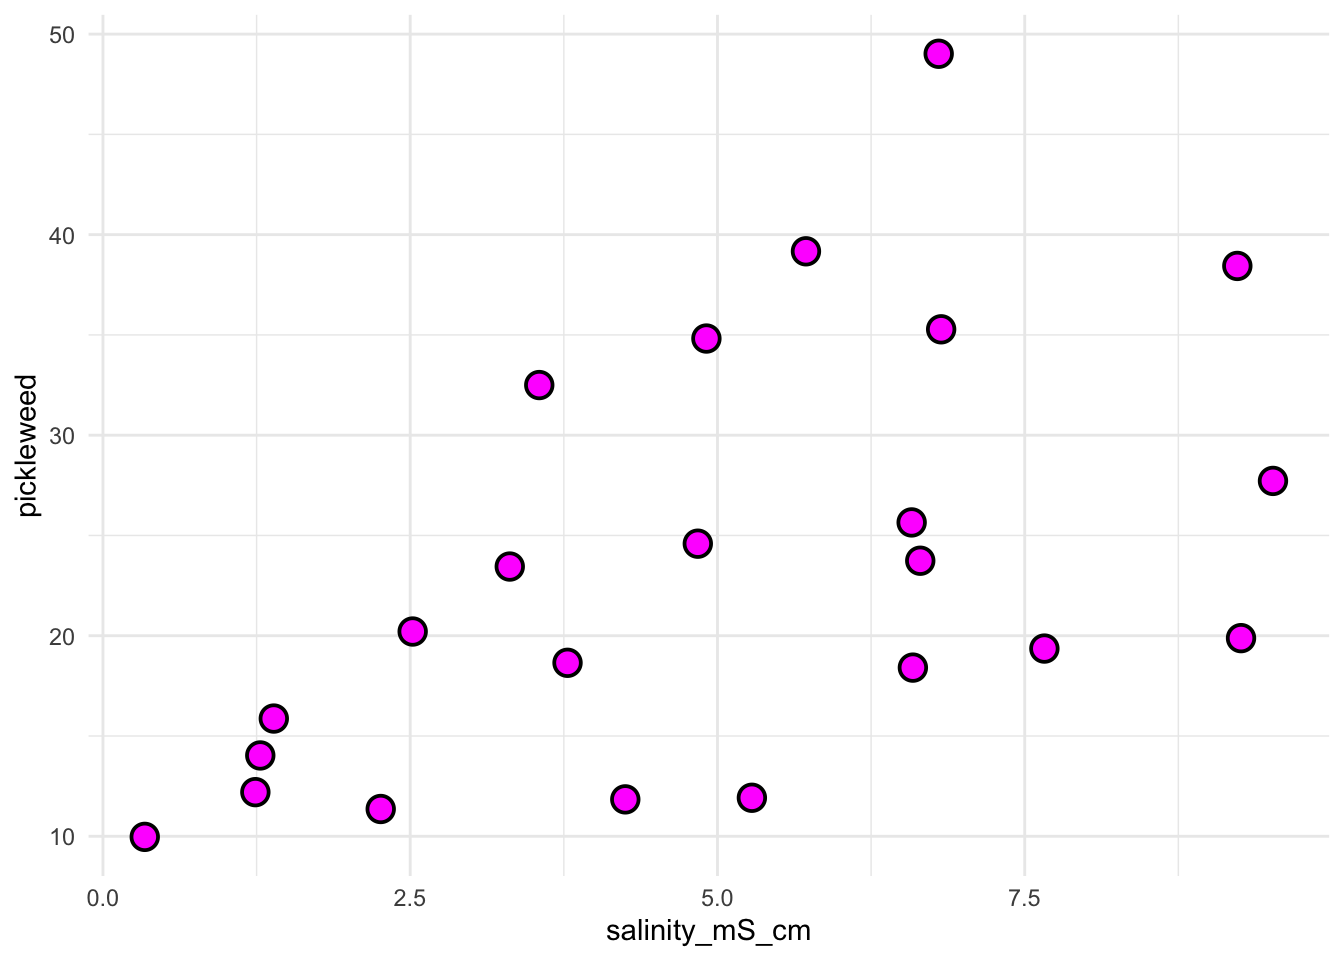
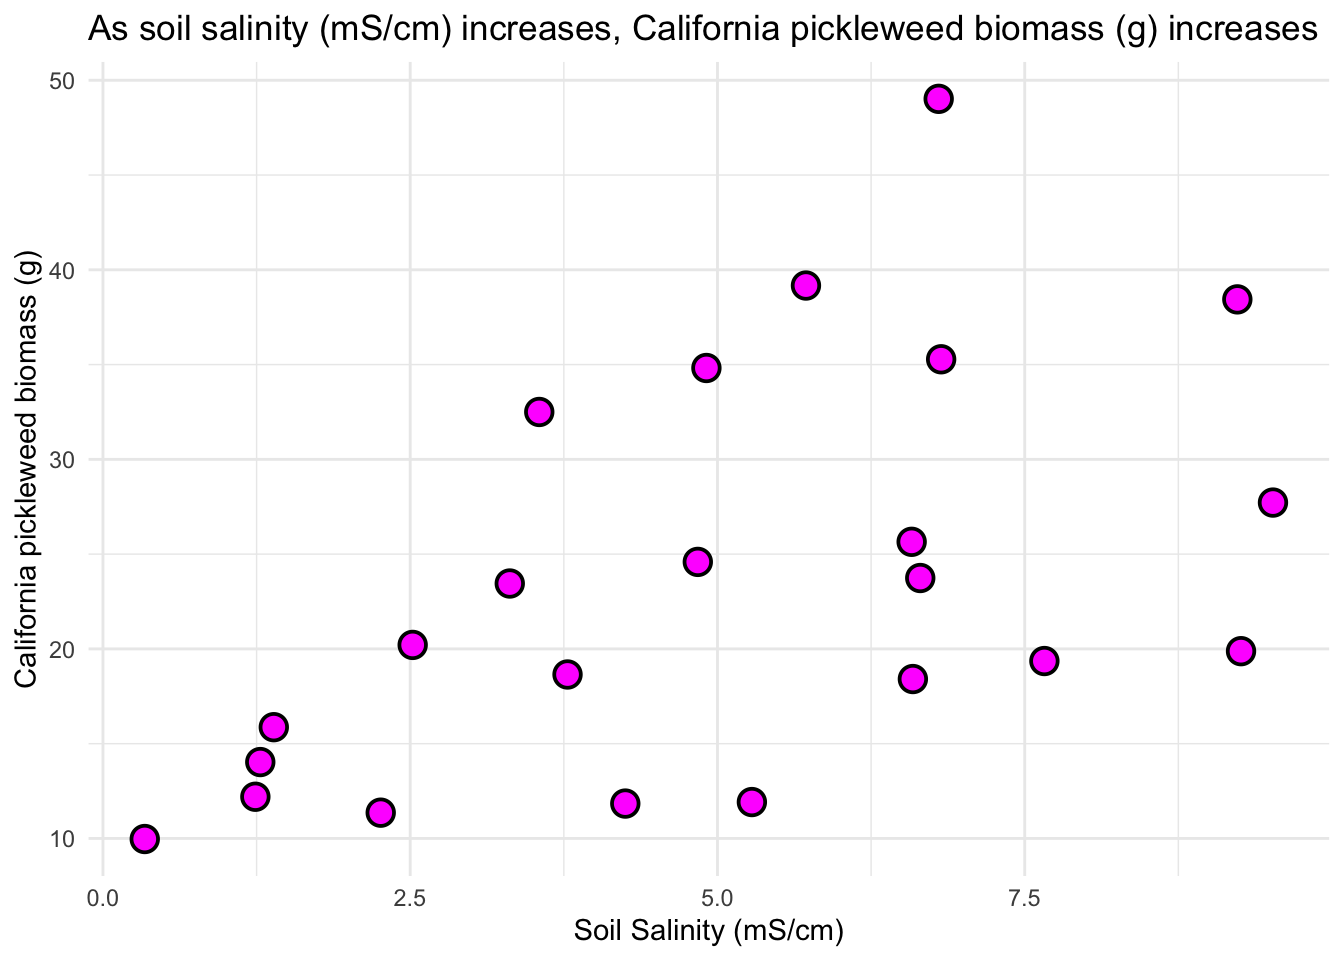
answering question 1a about appropriate tests, starting 1c for assumptions and running test

diff --git a/Code/homework_03.html b/Code/homework_03.html
@@ -91,7 +91,7 @@ pre > code.sourceCode > span > a:first-child::before { text-decoration: underlin
   <li><a href="#a.-an-apropriate-test" id="toc-a.-an-apropriate-test" class="nav-link" data-scroll-target="#a.-an-apropriate-test">a. An apropriate test</a></li>
   <li><a href="#b.-create-visualization" id="toc-b.-create-visualization" class="nav-link" data-scroll-target="#b.-create-visualization">b. Create visualization</a></li>
   <li><a href="#c.-check-assumptions-and-run-the-test" id="toc-c.-check-assumptions-and-run-the-test" class="nav-link" data-scroll-target="#c.-check-assumptions-and-run-the-test">c.&nbsp;Check assumptions and run the test</a></li>
-  <li><a href="#check" id="toc-check" class="nav-link" data-scroll-target="#check">Check</a></li>
+  <li><a href="#checks-for-pearsons-correlation" id="toc-checks-for-pearsons-correlation" class="nav-link" data-scroll-target="#checks-for-pearsons-correlation">Checks for Pearson’s correlation</a></li>
   <li><a href="#run-the-test" id="toc-run-the-test" class="nav-link" data-scroll-target="#run-the-test">Run the test</a></li>
   <li><a href="#d.-results-communication" id="toc-d.-results-communication" class="nav-link" data-scroll-target="#d.-results-communication">d.&nbsp;Results communication</a></li>
   <li><a href="#e.-test-implications" id="toc-e.-test-implications" class="nav-link" data-scroll-target="#e.-test-implications">e. Test implications</a></li>
@@ -173,6 +173,7 @@ pre > code.sourceCode > span > a:first-child::before { text-decoration: underlin
 <h1>Problem 1. Slough soil salinity</h1>
 <section id="a.-an-apropriate-test" class="level2">
 <h2 class="anchored" data-anchor-id="a.-an-apropriate-test">a. An apropriate test</h2>
+<p>To test the strength of the relationship between salinity and California pickleweed biomass, I would use Pearson’s correlation or Spearman’s Rank. Pearsons’ correlation is the parametric version to measure the strength of a linear relationship. In contrast, Spearman rank correlation is the non-parametric version and tests for a monotonic relationship based on ranks between variables. Pearson’s correlation requires an approximately normal distribution and continous variables while Spearman’s rank does not have this requirement.</p>
 </section>
 <section id="b.-create-visualization" class="level2">
 <h2 class="anchored" data-anchor-id="b.-create-visualization">b. Create visualization</h2>
@@ -185,7 +186,10 @@ pre > code.sourceCode > span > a:first-child::before { text-decoration: underlin
 <span id="cb2-6"><a href="#cb2-6" aria-hidden="true" tabindex="-1"></a>             <span class="at">stroke =</span> <span class="dv">1</span>, <span class="co"># making outline of points thickness 1</span></span>
 <span id="cb2-7"><a href="#cb2-7" aria-hidden="true" tabindex="-1"></a>             <span class="at">fill =</span> <span class="st">"magenta"</span>, <span class="co"># changing color of individual points</span></span>
 <span id="cb2-8"><a href="#cb2-8" aria-hidden="true" tabindex="-1"></a>             <span class="at">shape =</span> <span class="dv">21</span>) <span class="sc">+</span> <span class="co"># changing shape of individual points</span></span>
-<span id="cb2-9"><a href="#cb2-9" aria-hidden="true" tabindex="-1"></a>  <span class="fu">theme_minimal</span>() <span class="co"># changing theme from ggplot default</span></span></code></pre></div><button title="Copy to Clipboard" class="code-copy-button"><i class="bi"></i></button></div>
+<span id="cb2-9"><a href="#cb2-9" aria-hidden="true" tabindex="-1"></a>  <span class="fu">labs</span>(<span class="at">x =</span> <span class="st">"Soil Salinity (mS/cm)"</span>, </span>
+<span id="cb2-10"><a href="#cb2-10" aria-hidden="true" tabindex="-1"></a>       <span class="at">y =</span> <span class="st">"California pickleweed biomass (g)"</span>,</span>
+<span id="cb2-11"><a href="#cb2-11" aria-hidden="true" tabindex="-1"></a>       <span class="at">title =</span> <span class="st">"As soil salinity (mS/cm) increases, California pickleweed biomass (g) increases"</span>) <span class="sc">+</span> <span class="co"># adding title</span></span>
+<span id="cb2-12"><a href="#cb2-12" aria-hidden="true" tabindex="-1"></a>  <span class="fu">theme_minimal</span>() <span class="co"># changing theme from ggplot default</span></span></code></pre></div><button title="Copy to Clipboard" class="code-copy-button"><i class="bi"></i></button></div>
 <div class="cell-output-display">
 <div>
 <figure class="figure">
@@ -198,8 +202,9 @@ pre > code.sourceCode > span > a:first-child::before { text-decoration: underlin
 <section id="c.-check-assumptions-and-run-the-test" class="level2">
 <h2 class="anchored" data-anchor-id="c.-check-assumptions-and-run-the-test">c.&nbsp;Check assumptions and run the test</h2>
 </section>
-<section id="check" class="level2">
-<h2 class="anchored" data-anchor-id="check">Check</h2>
+<section id="checks-for-pearsons-correlation" class="level2">
+<h2 class="anchored" data-anchor-id="checks-for-pearsons-correlation">Checks for Pearson’s correlation</h2>
+<p>Based on the graph in part 1b, there seems to be a linear relationship between soil salinity (mS/cm) and California pickleweed biomass (g).</p>
 </section>
 <section id="run-the-test" class="level2">
 <h2 class="anchored" data-anchor-id="run-the-test">Run the test</h2>
